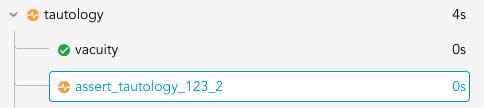
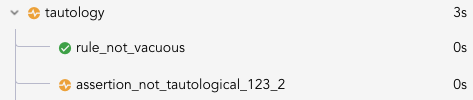
updating tautology

diff --git a/docs/prover/checking/sanity.md b/docs/prover/checking/sanity.md
@@ -112,7 +112,7 @@ rule tautology {
 Since every `uint` satisfies the assertion, the assertion is tautological, which
 may indicate an error in the specification.
 
-The tautology check will add a sub-rule per `assert` or `satisfy` statement for each rule.  The tautology check sub-rules are named with the prefix `assert_tautology_` followed by a numerical ID.  For example, the rule report for the above `tautology` rule will look like this:
+The tautology check will add a sub-rule per `assert` or `satisfy` statement for each rule.  The tautology check sub-rules are named with the prefix `assert_not_tautological_` followed by a numerical ID.  For example, the rule report for the above `tautology` rule will look like this:
 
 ![Screenshot of assert tautology subrule](tautology_subrule.png)
 
